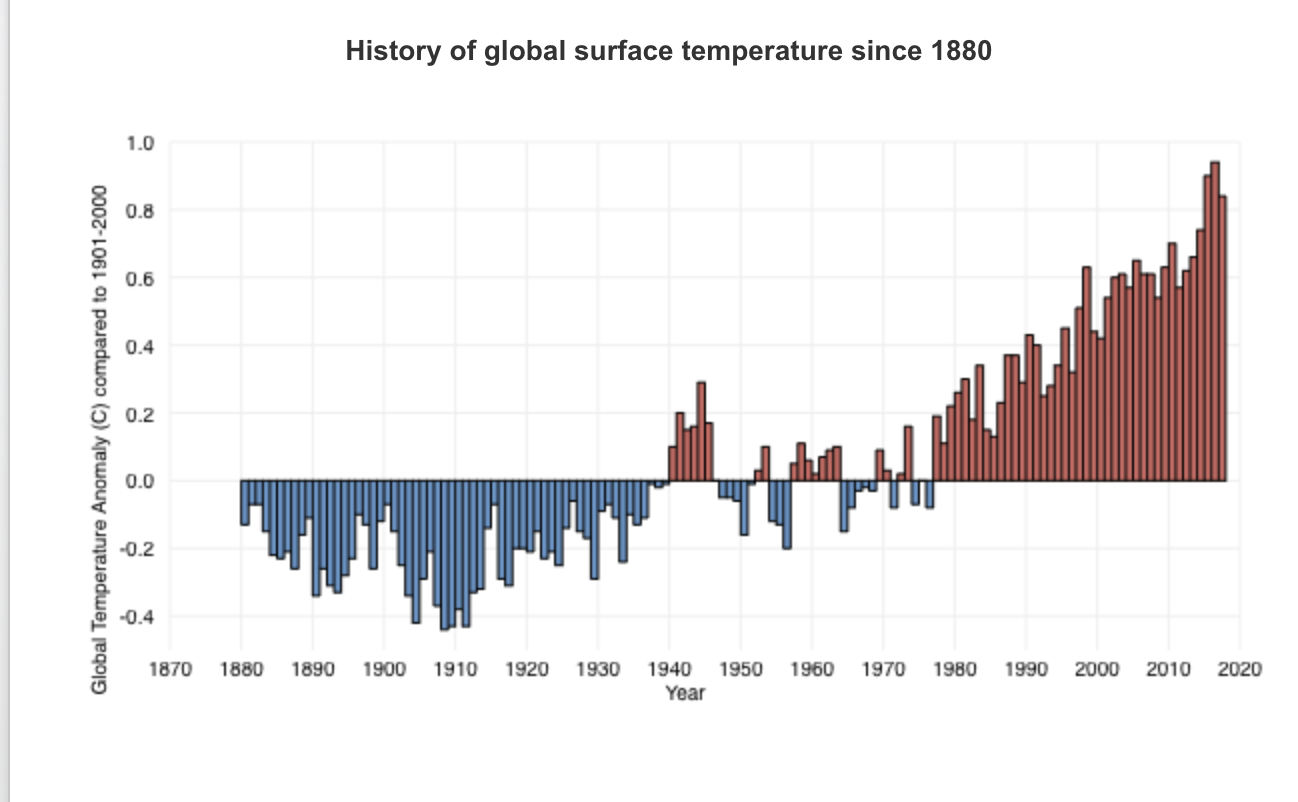
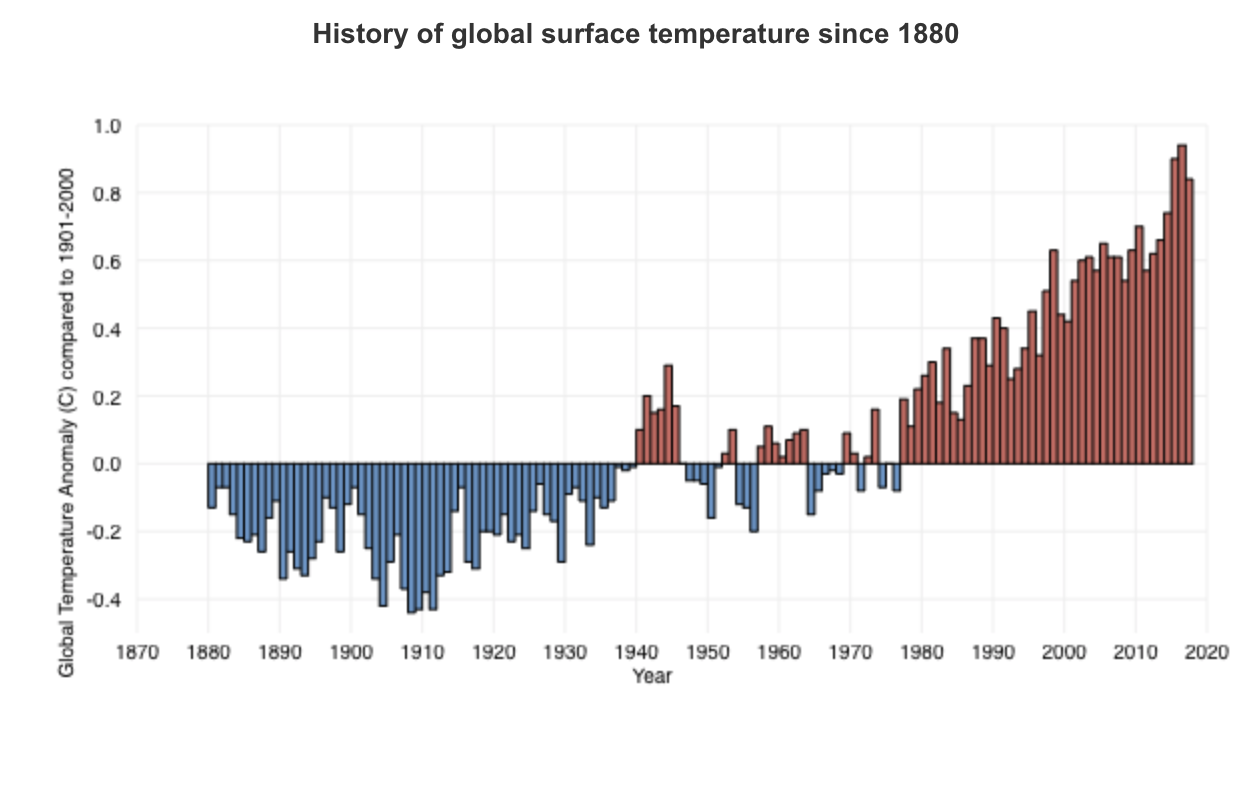
fixed charts

diff --git a/interactive1/story2.html b/interactive1/story2.html
@@ -64,14 +64,12 @@ LAST COMMIT TO THIS WAS 11/1/2018. 12:47am
         <iframe id="datawrapper-chart-eklsd" src="//datawrapper.dwcdn.net/eklsd/2/" scrolling="no" frameborder="0" style="width: 0; min-width: 100% !important;" height="424"></iframe><script type="text/javascript">if("undefined"==typeof window.datawrapper)window.datawrapper={};window.datawrapper["eklsd"]={},window.datawrapper["eklsd"].embedDeltas={"100":524,"200":474,"300":449,"400":449,"500":424,"700":424,"800":424,"900":424,"1000":424},window.datawrapper["eklsd"].iframe=document.getElementById("datawrapper-chart-eklsd"),window.datawrapper["eklsd"].iframe.style.height=window.datawrapper["eklsd"].embedDeltas[Math.min(1e3,Math.max(100*Math.floor(window.datawrapper["eklsd"].iframe.offsetWidth/100),100))]+"px",window.addEventListener("message",function(a){if("undefined"!=typeof a.data["datawrapper-height"])for(var b in a.data["datawrapper-height"])if("eklsd"==b)window.datawrapper["eklsd"].iframe.style.height=a.data["datawrapper-height"][b]+"px"});</script>
     </div>
 
-     <p>fig. 1 -data derived from <i>World Bank - <a href="https://www.climate.gov/news-features/understanding-climate/climate-change-global-temperature">Climate Change: Global Temperature</i></a>.
 
       <p>When arranged in ascending order, we can see that between 1998 and 2015, values reaching the threshold of 8.0 become more frequent.(fig. 1.2). Four of the five highest values occurred between 2005 and 2015.</p>
 
 
-      <iframe id="datawrapper-chart-WamXh" src="//datawrapper.dwcdn.net/WamXh/1/"   scrolling="no" frameborder="0" style="width: 0; min-width: 100% !important;" height="424"></iframe><script type="text/javascript">if("undefined"==typeof window.datawrapper)window.datawrapper={};window.datawrapper["WamXh"]={},window.datawrapper["WamXh"].embedDeltas={"100":566,"200":499,"300":449,"400":449,"500":449,"700":424,"800":424,"900":424,"1000":424},window.datawrapper["WamXh"].iframe=document.getElementById("datawrapper-chart-WamXh"),window.datawrapper["WamXh"].iframe.style.height=window.datawrapper["WamXh"].embedDeltas[Math.min(1e3,Math.max(100*Math.floor(window.datawrapper["WamXh"].iframe.offsetWidth/100),100))]+"px",window.addEventListener("message",function(a){if("undefined"!=typeof a.data["datawrapper-height"])for(var b in a.data["datawrapper-height"])if("WamXh"==b)window.datawrapper["WamXh"].iframe.style.height=a.data["datawrapper-height"][b]+"px"});</script>
+      <iframe id="datawrapper-chart-WamXh" src="//datawrapper.dwcdn.net/WamXh/2/" scrolling="no" frameborder="0" style="width: 0; min-width: 100% !important;" height="424"></iframe><script type="text/javascript">if("undefined"==typeof window.datawrapper)window.datawrapper={};window.datawrapper["WamXh"]={},window.datawrapper["WamXh"].embedDeltas={"100":566,"200":499,"300":449,"400":449,"500":449,"700":424,"800":424,"900":424,"1000":424},window.datawrapper["WamXh"].iframe=document.getElementById("datawrapper-chart-WamXh"),window.datawrapper["WamXh"].iframe.style.height=window.datawrapper["WamXh"].embedDeltas[Math.min(1e3,Math.max(100*Math.floor(window.datawrapper["WamXh"].iframe.offsetWidth/100),100))]+"px",window.addEventListener("message",function(a){if("undefined"!=typeof a.data["datawrapper-height"])for(var b in a.data["datawrapper-height"])if("WamXh"==b)window.datawrapper["WamXh"].iframe.style.height=a.data["datawrapper-height"][b]+"px"});</script>
     
-    <p>fig. 1.2 -data derived from <i>World Bank - <a href="https://www.climate.gov/news-features/understanding-climate/climate-change-global-temperature">Climate Change: Global Temperature</i></a>.
 
       <p>According to the NASA Goddard Institute for Space Studies, between 1998 and 2008, the average temperature change values were between 0.45 and 0.65. 
       In only six years, between 2010 and 2016, temperature change has climbed to values between 0.7 to 1.0. Both the temperature change and the rate of increase have shifted in the last ten years. 
